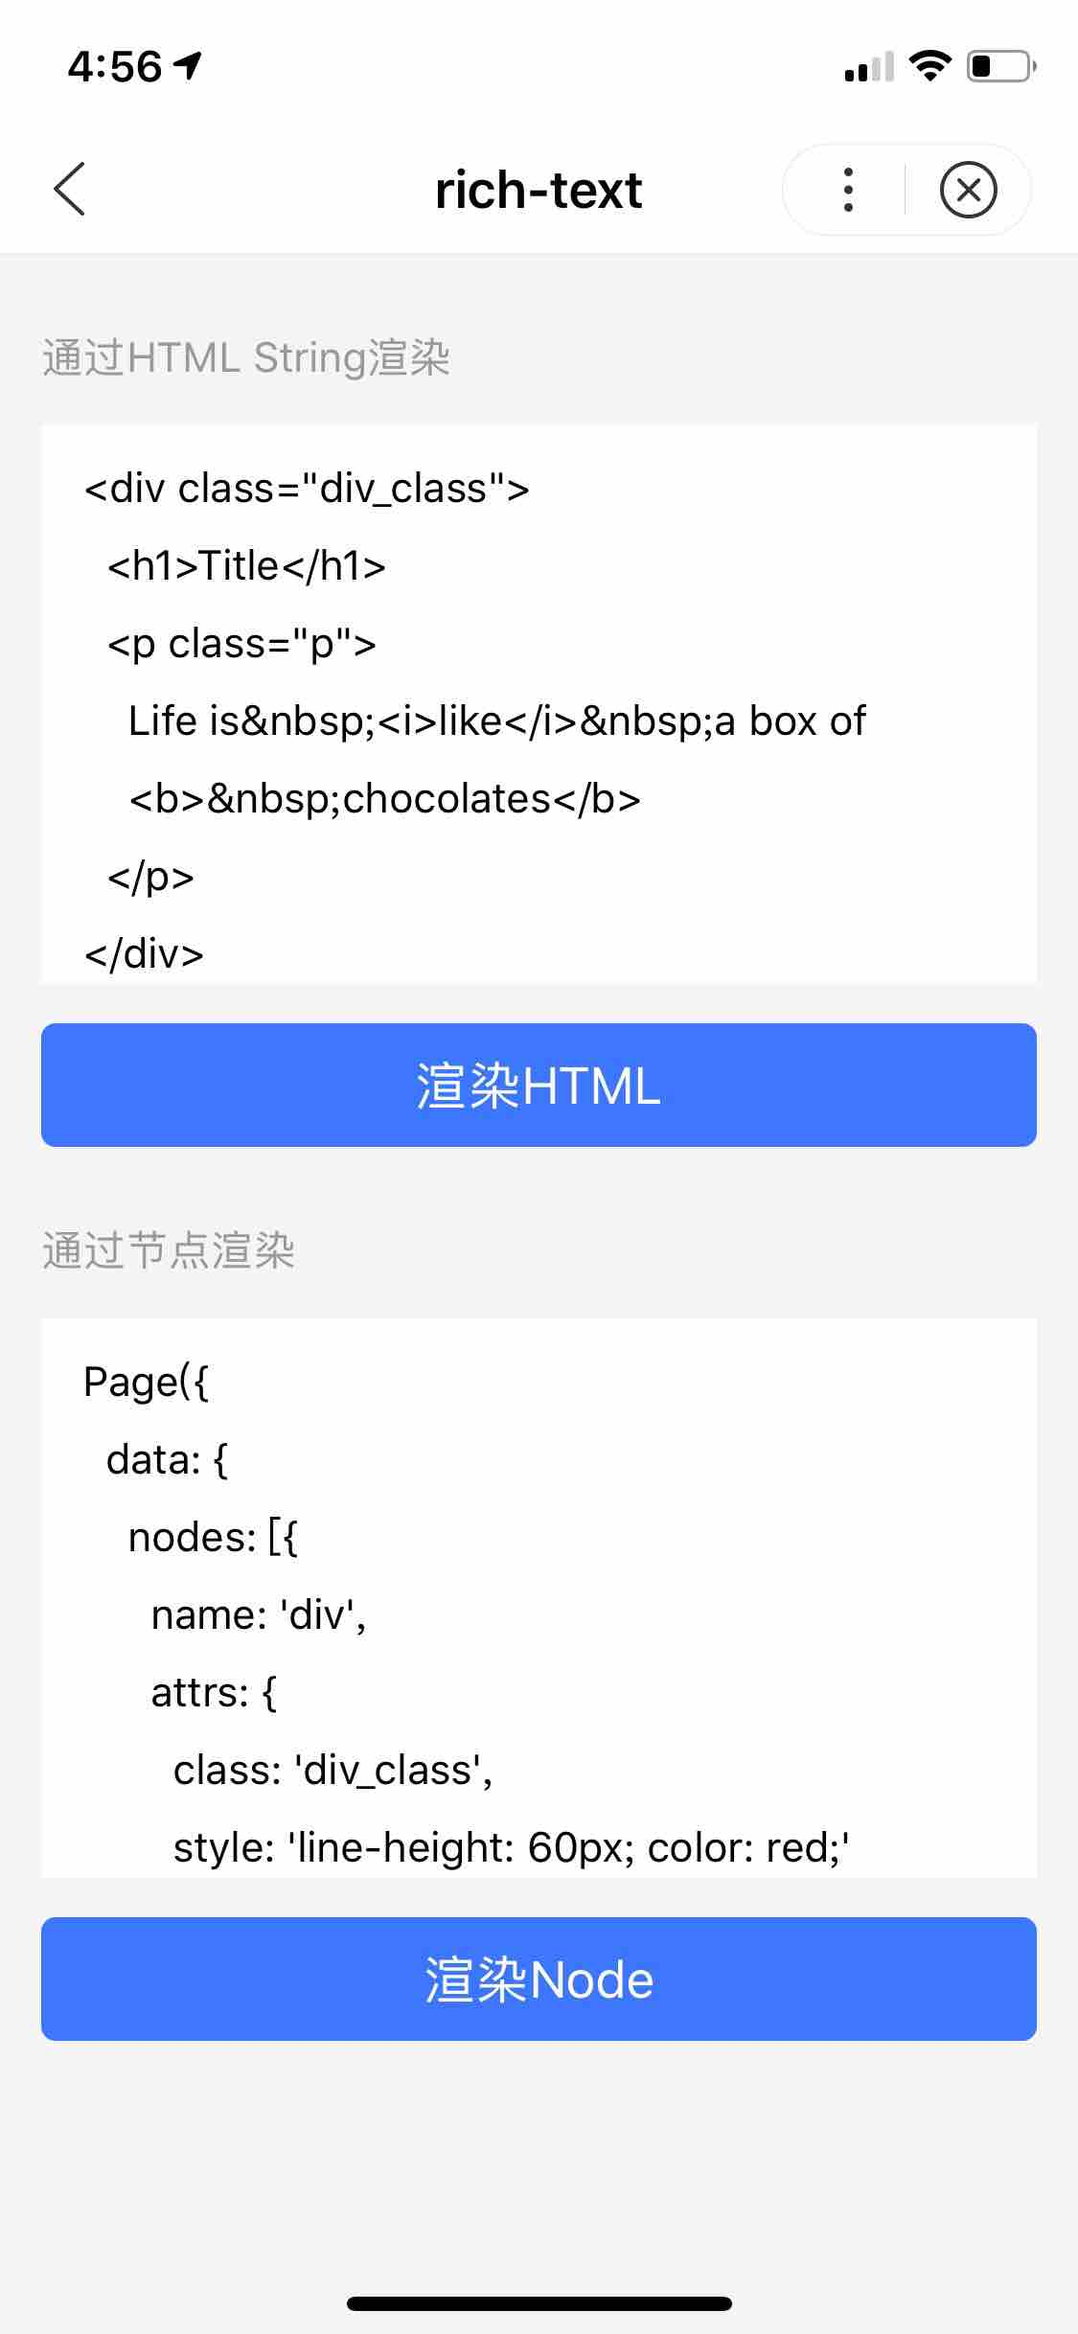
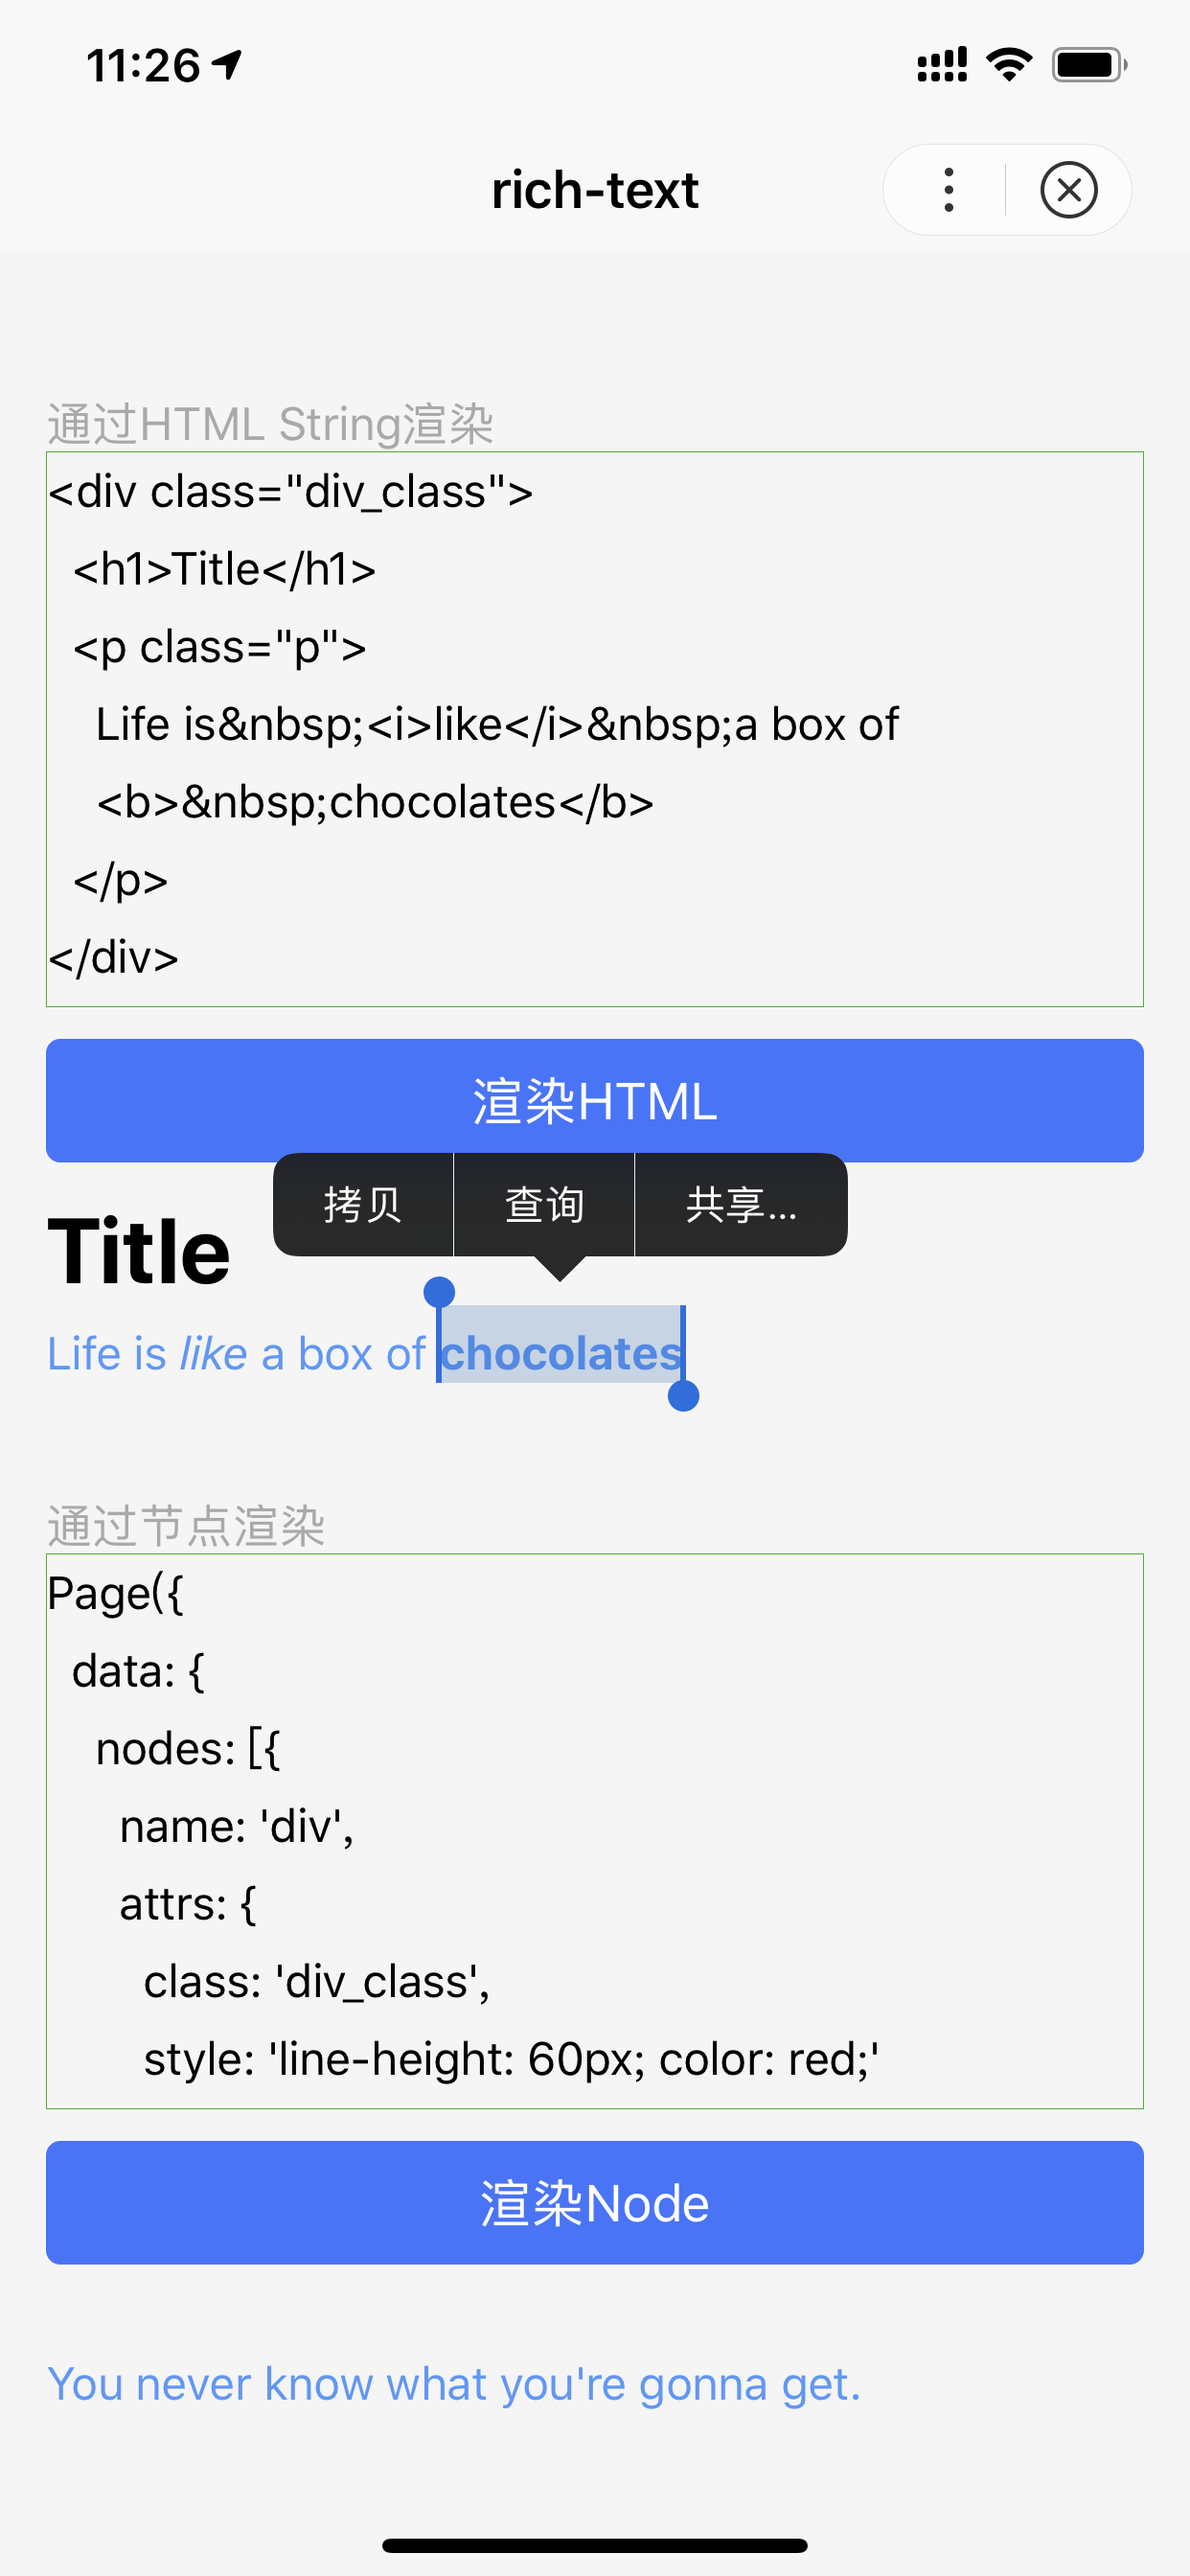
rich-text selectable属性更新代码片段与示例图片

diff --git a/source/_posts/develop/component/base.md b/source/_posts/develop/component/base.md
@@ -201,6 +201,7 @@ Page({
 |属性名 |类型  |默认值  | 必填 |说明|
 |---- | ---- | ---- | ---- |---- |
 | nodes | Array / String  | [] | 否 |节点列表 / HTML String|
+| selectable | Boolean | false | 否 |富文本是否可以长按选中，可用于复制，粘贴等场景。 <font color="#4183c4">百度 APP 11.10 以上</font>|
 
 ### nodes
 现支持两种节点，通过type来区分，分别是 **元素节点** 和 **文本节点** ，默认是元素节点，在富文本区域里显示的HTML节点。
@@ -278,7 +279,7 @@ Page({
 
 **示例**
 
-<a href="swanide://fragment/e9ad331b85bd358a215813e62dbfea601565503525233" title="在开发者工具中预览效果" target="_self">在开发者工具中预览效果</a>
+<a href="swanide://fragment/746c4d81d51218ea977782622aa61d9a1566379382794" title="在开发者工具中预览效果" target="_self">在开发者工具中预览效果</a>
 
 * 在 swan 文件中
 
@@ -292,7 +293,7 @@ Page({
             </scroll-view>
             <button type="primary" bind:tap="renderHtml">渲染HTML</button>
             <block s-if="{{renderedByHtml}}">
-                <rich-text nodes="{{htmlSnip}}"></rich-text>
+                <rich-text nodes="{{htmlSnip}}" selectable="true"></rich-text>
             </block>
         </view>
     </view>
@@ -304,7 +305,7 @@ Page({
             </scroll-view>
             <button type="primary" bind:tap="renderNode">渲染Node</button>
             <block s-if="{{renderedByNode}}" style="margin-bottom:.5rem">
-                <rich-text nodes="{{nodes}}"></rich-text>
+                <rich-text nodes="{{nodes}}" selectable="true"></rich-text>
             </block>
         </view>
     </view>
